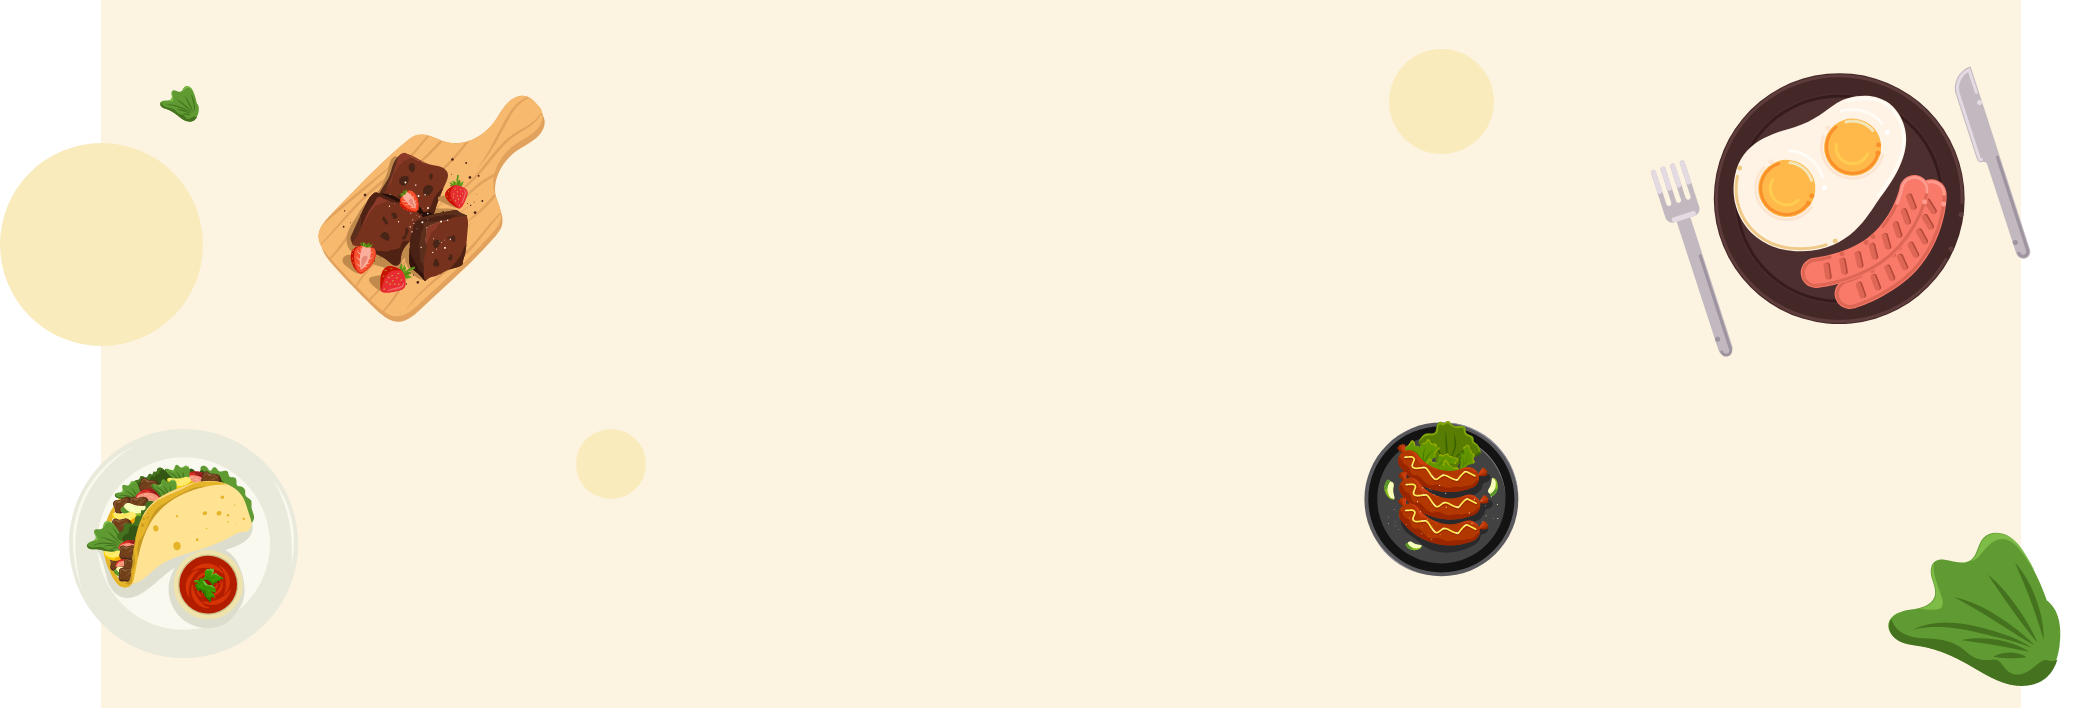
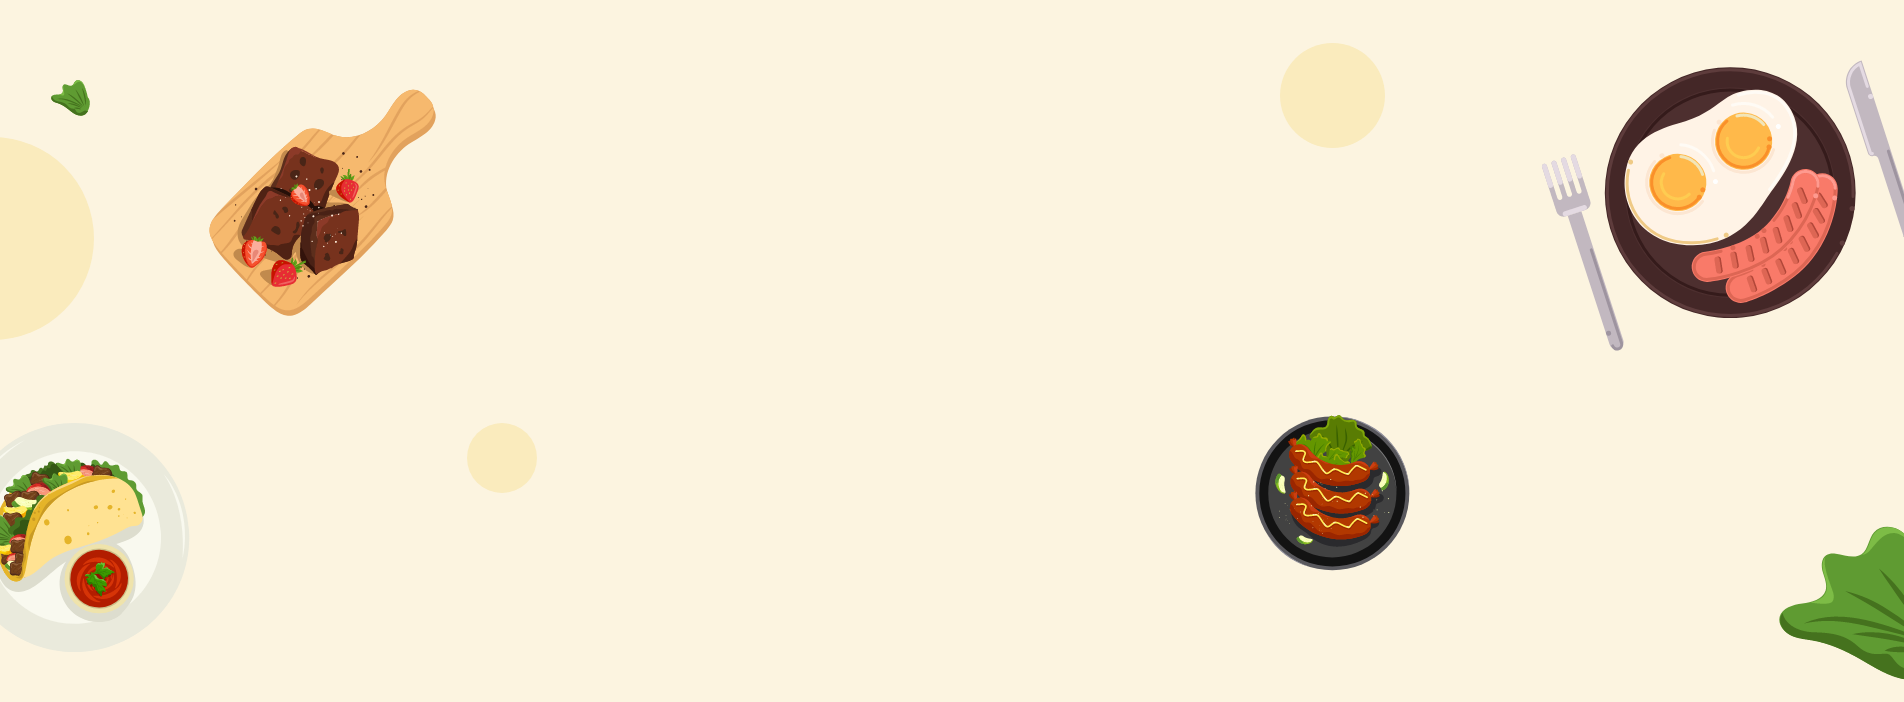
sfds

diff --git a/src/components/Header/Header.js b/src/components/Header/Header.js
@@ -1,24 +1,26 @@
 import React from 'react';
-import { Container, Nav, Navbar } from 'react-bootstrap';
+import './Header.css';
 import { AiOutlineShoppingCart } from "react-icons/ai";
 import logo from '../../Photo/images/logo2.png'
 
 const Header = () => {
   return (
-    <div>
-      <Navbar bg='dark' variant='dark'>
+    <div class="text-center" style={{backgroundColor:'whitesmoke',padding:'20px'}} >
+      
+        <div class="row">
+          <div class="col-md-4 d-flex align-self-start">
+            <a style={{paddingLeft:'80px'}} className='logoStyle' href="/home"><img src={logo} height='50px' alt="" /></a>
+          </div>
+          <div class="col-md-4 offset-md-4 aaaa d-flex align-self-center">
+            <a style={{ padding: '10px', fontWeight: 'bold'}}  href="/cart"><AiOutlineShoppingCart size='30px'></AiOutlineShoppingCart></a>
+            <a style={{ padding: '10px', textDecoration:'none',  color:'black',fontWeight: 'bold'}} href="/login">Login</a>
+          <a style={{ padding: '10px', textDecoration: 'none', color: 'white', backgroundColor: 'red', borderRadius: '10px', fontWeight: 'bold'}} href="/signup">Sign Up</a>
+          </div>
+        </div>
 
-        <Container  style={{display: 'flex'}} >
-          <Navbar.Brand href="/home"><img src={logo} alt="" /></Navbar.Brand>
-          <Nav className="me-auto">
-            <Nav.Link href="/cart"> <AiOutlineShoppingCart></AiOutlineShoppingCart></Nav.Link>
-            <Nav.Link href="/login">Login</Nav.Link>
-            <Nav.Link href="/signup">Sign Up</Nav.Link>
-          </Nav>
-        </Container>
-
-      </Navbar>
-    </div>
+      </div>
+     
+    
   );
 };
 

diff --git a/public/index.html b/public/index.html
@@ -24,6 +24,8 @@
       work correctly both with client-side routing and a non-root public URL.
       Learn how to configure a non-root public URL by running `npm run build`.
     -->
+    <link href="https://cdn.jsdelivr.net/npm/bootstrap@5.3.0/dist/css/bootstrap.min.css" rel="stylesheet"
+      integrity="sha384-9ndCyUaIbzAi2FUVXJi0CjmCapSmO7SnpJef0486qhLnuZ2cdeRhO02iuK6FUUVM" crossorigin="anonymous">
     <title>React App</title>
   </head>
   <body>
@@ -39,5 +41,11 @@
       To begin the development, run `npm start` or `yarn start`.
       To create a production bundle, use `npm run build` or `yarn build`.
     -->
+    <script src="https://cdn.jsdelivr.net/npm/bootstrap@5.3.0/dist/js/bootstrap.bundle.min.js"
+      integrity="sha384-geWF76RCwLtnZ8qwWowPQNguL3RmwHVBC9FhGdlKrxdiJJigb/j/68SIy3Te4Bkz" crossorigin="anonymous"></script>
+      <script src="https://cdn.jsdelivr.net/npm/@popperjs/core@2.11.8/dist/umd/popper.min.js"
+        integrity="sha384-I7E8VVD/ismYTF4hNIPjVp/Zjvgyol6VFvRkX/vR+Vc4jQkC+hVqc2pM8ODewa9r" crossorigin="anonymous"></script>
+      <script src="https://cdn.jsdelivr.net/npm/bootstrap@5.3.0/dist/js/bootstrap.min.js"
+        integrity="sha384-fbbOQedDUMZZ5KreZpsbe1LCZPVmfTnH7ois6mU1QK+m14rQ1l2bGBq41eYeM/fS" crossorigin="anonymous"></script>
   </body>
 </html>

diff --git a/src/App.js b/src/App.js
@@ -1,4 +1,3 @@
-import './App.css';
 import Home from './components/Home/Home';
 import { BrowserRouter, Route, Routes } from 'react-router-dom';
 import Header from './components/Header/Header';
@@ -6,15 +5,16 @@ import Lunch from './components/Lunch/Lunch';
 import Dinner from './components/Dinner/Dinner';
 import Breakfast from './components/Breakfast/Breakfast';
 import Footer from './components/Footer/Footer';
+import Header2 from './components/Header2/Header2';
 
 function App() {
   return (
     <div>
       <BrowserRouter>
         <Header></Header>
+        <Header2></Header2>
         <Dinner></Dinner>
         <Routes>
-          {/* <Route element={Header} path='/header'></Route> */}
           <Route element={Lunch} path='/lunch'></Route>
           <Route element={Dinner} path='/dinner'></Route>
           <Route element={Breakfast} path='/breakfast'></Route>

diff --git a/src/components/Header2/Header2.js b/src/components/Header2/Header2.js
@@ -1,0 +1,12 @@
+import React from 'react';
+import pic from '../../Photo/images/bannerbackground.png';
+
+const Header2 = () => {
+  return (
+    <div>
+      <img src={pic} height='400px' width='100%' alt="" />
+    </div>
+  );
+};
+
+export default Header2;
